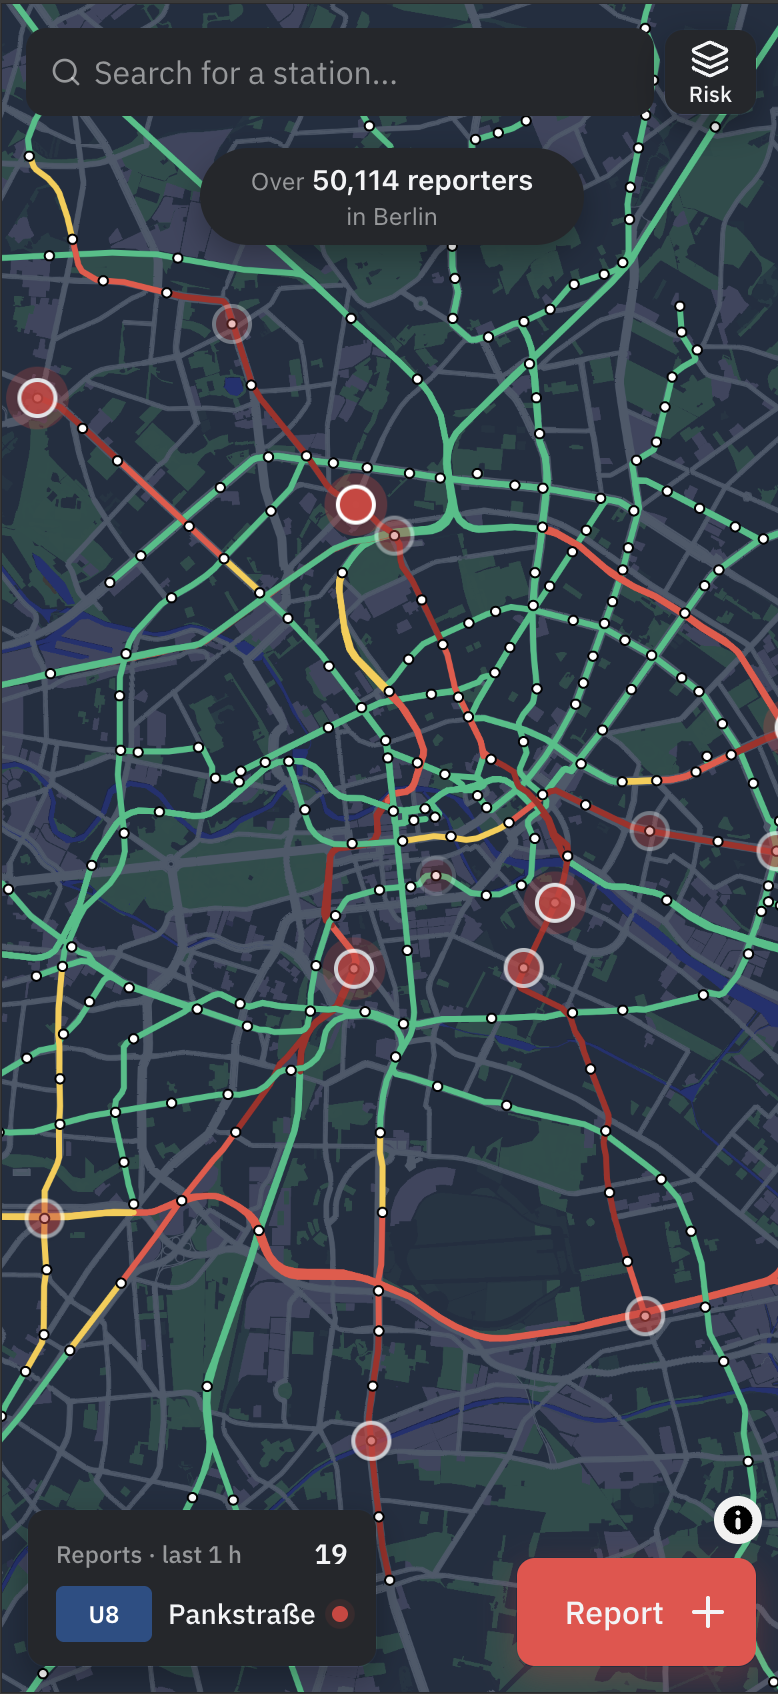
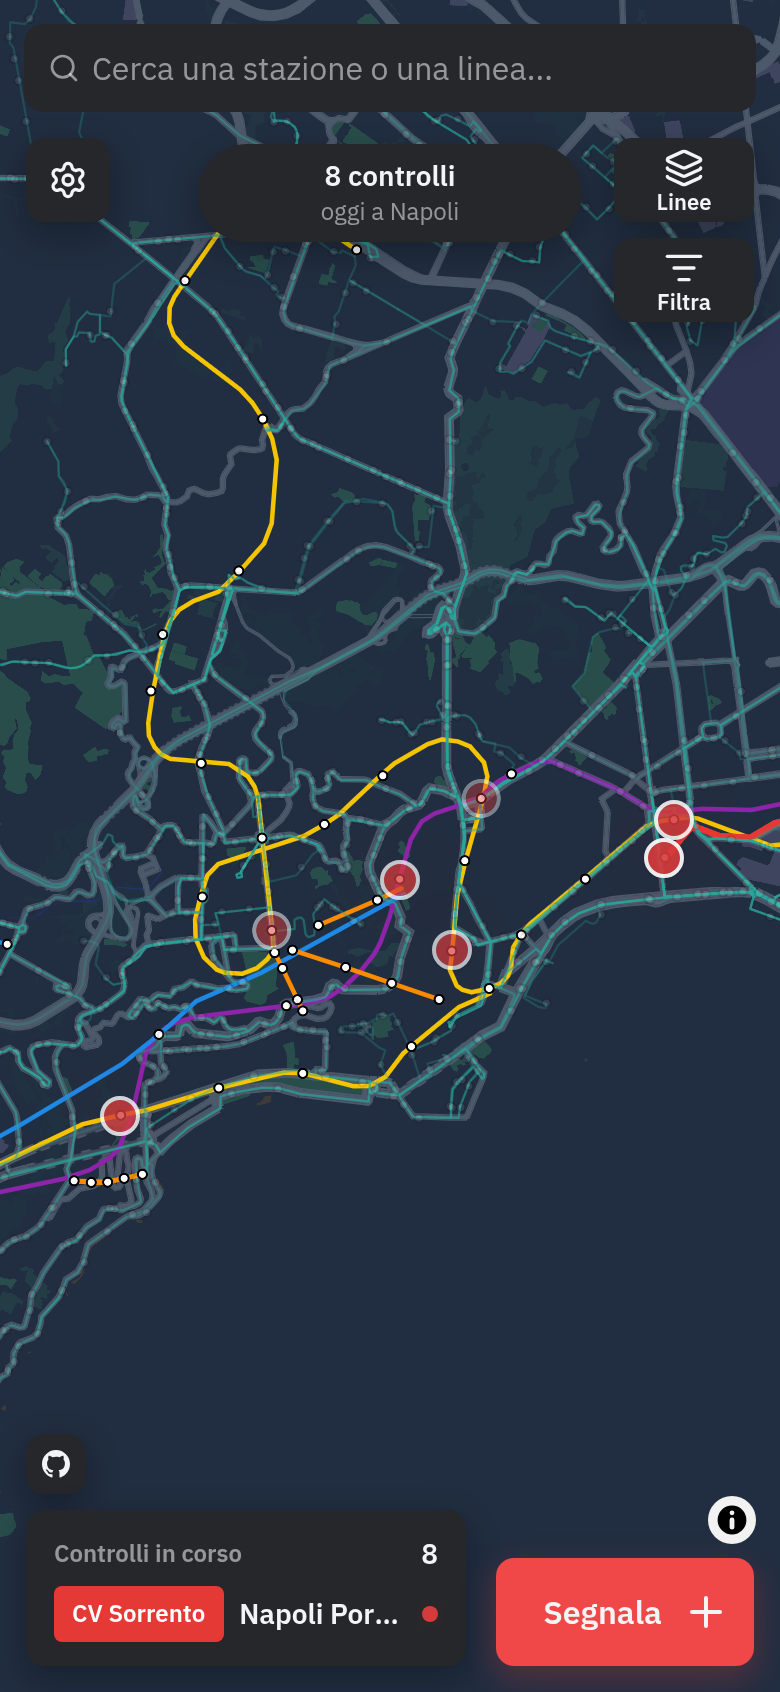
docs: show the Naples map in the README screenshots

diff --git a/README.md b/README.md
@@ -38,9 +38,9 @@
 ---
 
 <div align="center">
-  <img src="docs/readme_assets/screenshot1.png" alt="Mappa di Statt’Accuort con le segnalazioni" width="250" />
+  <img src="docs/readme_assets/screenshot1.png" alt="Mappa di Napoli con le linee e le segnalazioni attive" width="250" />
   &nbsp;&nbsp;&nbsp;
-  <img src="docs/readme_assets/screenshot2.png" alt="Panoramica della rete di Napoli" width="250" />
+  <img src="docs/readme_assets/screenshot2.png" alt="Mappa del rischio per tratta a Napoli" width="250" />
 </div>
 
 ## 👀 Che cos’è
